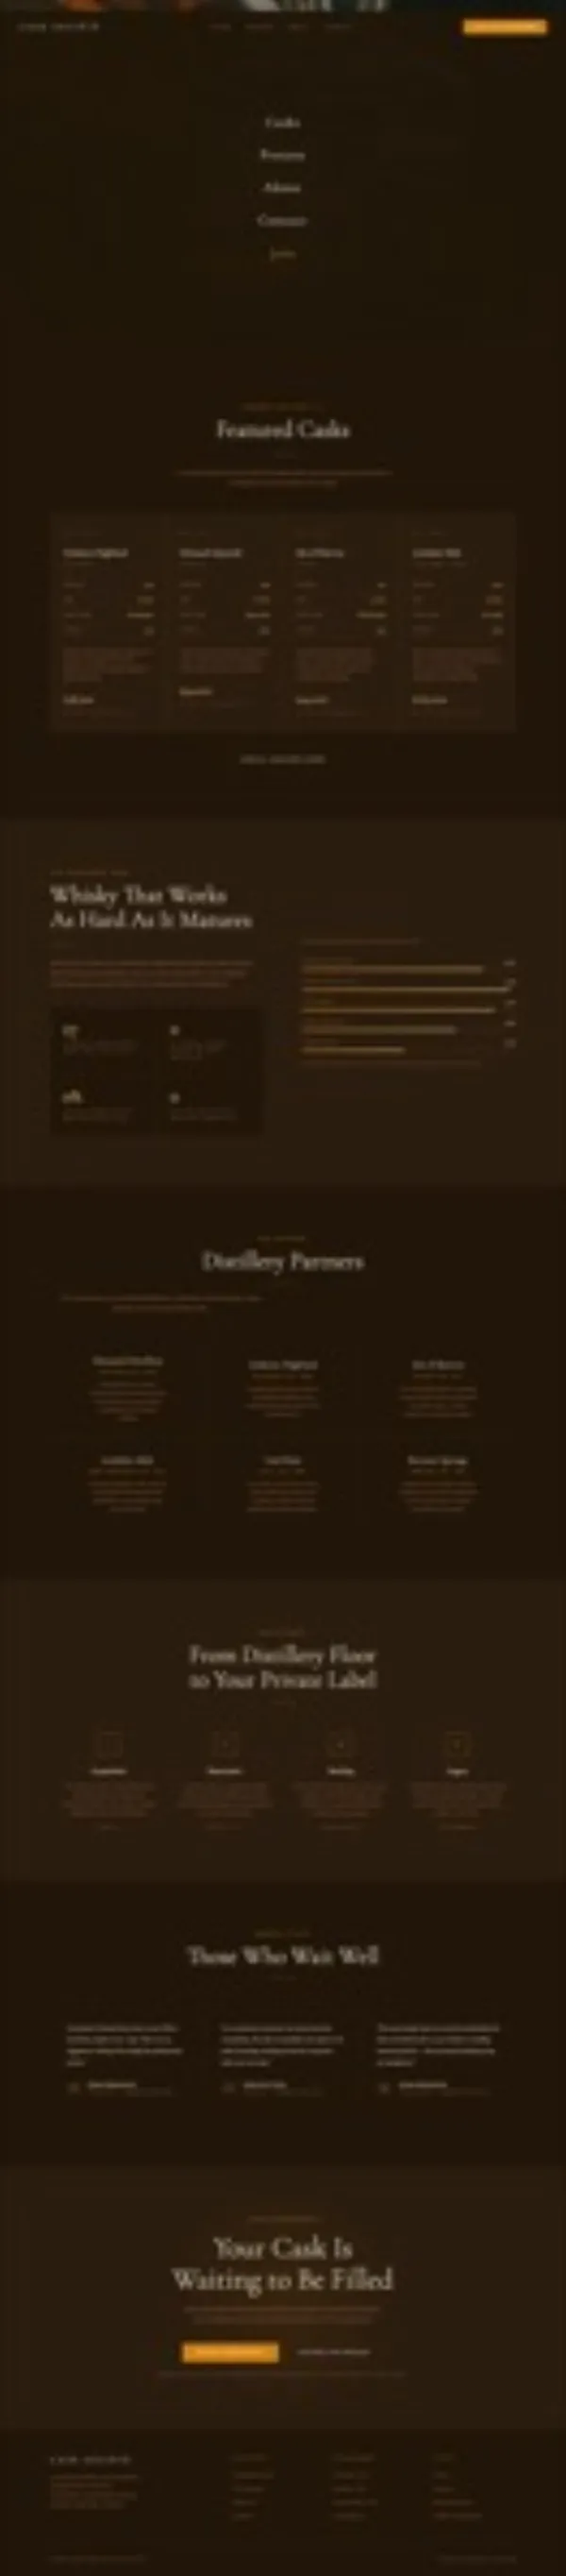
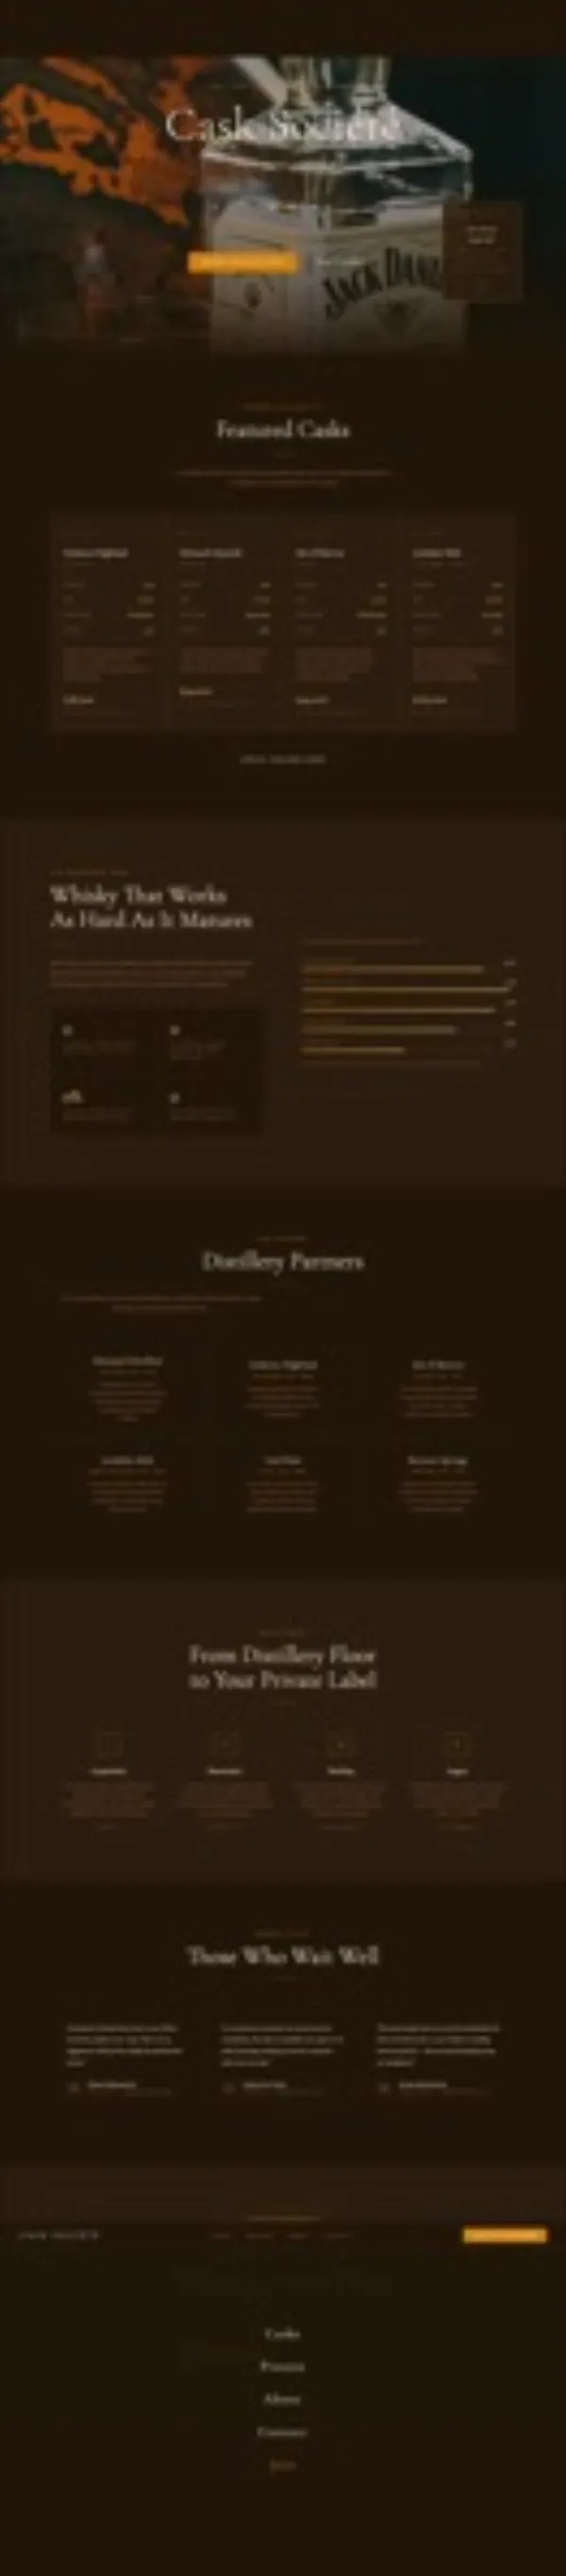
fix: improve capture-page.py and re-capture 19 thumbnails
capture-page.py improvements:
- wait_until='load' (was domcontentloaded) — waits for images/styles
- document.fonts.ready wait — ensures Google Fonts rendered
- Initial wait 600ms → 2500ms
- Scroll steps 8×150ms → 12×200ms + 1500ms settle
- GSAP: only force-complete non-scrub animations (was globalTimeline.progress(1))
- New SCRUB_RESET_SCRIPT: resets Hero G scroll-driven words to progress=0
  (fixes hero text showing in spread/faded end state)

Re-captured thumbnails:
- 15x 20260227 Hero G pages (scrub reset bug)
- 4x other pages (pottery-studio, underwater-restaurant, whisky-cask, wine-tasting-room)

Add scripts/check-thumbnails.py for batch quality inspection

Changed region(s): [[0.0, 0.0, 0.96, 0.1558], [0.3, 0.8413, 0.69, 0.9659], [0.81, 0.8413, 0.96, 0.8724]]

diff --git a/scripts/capture-page.py b/scripts/capture-page.py
@@ -34,7 +34,6 @@ REVEAL_SCRIPT = """
           if (rule.style) {
             var op = parseFloat(rule.style.opacity);
             var vis = rule.style.visibility;
-            var disp = rule.style.display;
             if ((op < 0.1 || vis === 'hidden') && !shouldExclude(rule.selectorText)) {
               overrides.push(
                 rule.selectorText +
@@ -90,47 +89,56 @@ if (si) si.classList.add('visible');
 var siAll = document.querySelectorAll('.scroll-indicator, .scroll-progress, [data-scroll-indicator]');
 siAll.forEach(function(el) { el.classList.add('visible'); el.style.opacity = '1'; });
 
-// 4. navbar 스크롤 상태 적용 (스크롤 후 배경 전환을 미리 적용)
+// 4. navbar 스크롤 상태 적용
 var nav = document.querySelector('nav, header, .navbar, .nav, #navbar, #header');
 if (nav) nav.classList.add('scrolled', 'solid', 'opaque');
 """
 
-GSAP_COMPLETE_SCRIPT = """
-// 1. ScrollTrigger 모든 애니메이션 강제 완료
+# once 애니메이션만 강제 완료 — scrub 애니메이션은 건드리지 않음
+GSAP_ONCE_COMPLETE_SCRIPT = """
+// 1. 비-scrub ScrollTrigger 애니메이션만 강제 완료 (once:true, toggleActions 계열)
 if (window.ScrollTrigger) {
   try {
     ScrollTrigger.getAll().forEach(function(st) {
       try {
-        st.scroll(st.end);
-        if (st.animation) st.animation.progress(1, true);
+        // scrubber가 없는 = once/toggleActions 계열
+        if (!st.scrubber && st.animation) {
+          st.animation.progress(1, true);
+        }
       } catch(e) {}
     });
-    ScrollTrigger.refresh(true);
   } catch(e) {}
 }
 
-// 2. GSAP 타임라인 전체 완료
+// 2. GSAP 타임라인 중 scrub이 아닌 것만 완료
 if (window.gsap) {
   try {
-    gsap.globalTimeline.progress(1, true);
-    gsap.globalTimeline.pause();
+    gsap.globalTimeline.getChildren(true, true, true).forEach(function(tween) {
+      try {
+        var st = tween.scrollTrigger;
+        // scrub 없는 트윈만 완료
+        if (!st || !st.scrubber) {
+          tween.progress(1, true);
+        }
+      } catch(e) {}
+    });
   } catch(e) {}
 }
 
-// 3. CSS transition/animation 강제 완료
+// 3. CSS transition/animation 즉시 완료 (스냅샷 고정)
 var style = document.createElement('style');
 style.id = '__capture_freeze';
 style.textContent = [
   '*, *::before, *::after {',
   '  transition-duration: 0ms !important;',
-  '  animation-duration: 0ms !important;',
+  '  animation-duration: 1ms !important;',
   '  animation-delay: 0ms !important;',
   '  transition-delay: 0ms !important;',
   '}'
 ].join('\\n');
 document.head.appendChild(style);
 
-// 4. opacity:0 인라인 스타일로 남은 요소 강제 표시
+// 4. opacity:0 인라인으로 남은 요소 강제 표시
 var SKIP = ['preloader','loader','loading','intro','overlay','modal','lightbox','backdrop'];
 document.querySelectorAll('*').forEach(function(el) {
   var cls = (el.className || '').toString();
@@ -143,7 +151,6 @@ document.querySelectorAll('*').forEach(function(el) {
       el.style.setProperty('visibility', 'visible', 'important');
     }
     if (st.transform && st.transform !== 'none' && st.transform !== 'matrix(1, 0, 0, 1, 0, 0)') {
-      // translateY가 큰 경우만 리셋 (숨겨진 상태)
       var m = st.transform.match(/matrix\\(([^)]+)\\)/);
       if (m) {
         var vals = m[1].split(',');
@@ -156,7 +163,7 @@ document.querySelectorAll('*').forEach(function(el) {
   }
 });
 
-// 5. Swiper 강제 업데이트
+// 5. Swiper 업데이트
 if (window.Swiper) {
   document.querySelectorAll('.swiper').forEach(function(el) {
     if (el.swiper) el.swiper.update();
@@ -168,6 +175,31 @@ document.querySelectorAll('img[data-src], img[loading="lazy"]').forEach(function
   if (img.dataset.src) img.src = img.dataset.src;
   img.loading = 'eager';
 });
+"""
+
+# scroll=0으로 복귀 후 scrub 애니메이션을 초기 상태로 리셋
+SCRUB_RESET_SCRIPT = """
+// 스크롤 TOP 복귀
+window.scrollTo(0, 0);
+
+// Hero G 등 scrub 애니메이션 → scroll=0 상태(progress=0)로 리셋
+if (window.ScrollTrigger) {
+  try {
+    ScrollTrigger.getAll().forEach(function(st) {
+      try {
+        if (st.scrubber) {
+          // scrub 기반 → progress=0 (scroll=0에서의 자연 상태)
+          st.scrubber.progress(0, true);
+          if (st.animation) {
+            st.animation.progress(0, true);
+          }
+        }
+      } catch(e) {}
+    });
+    // ScrollTrigger를 현재 scroll position(0)에 맞게 재계산
+    ScrollTrigger.refresh(true);
+  } catch(e) {}
+}
 """
 
 with sync_playwright() as p:
@@ -182,31 +214,37 @@ with sync_playwright() as p:
     # CSS opacity:0 강제 해제 (init script — 가장 먼저 실행)
     page.add_init_script(REVEAL_SCRIPT)
 
-    # 페이지 로드 (networkidle 대기)
-    page.goto(f"file://{file_path}", wait_until='domcontentloaded', timeout=30000)
-    page.wait_for_timeout(600)
+    # 페이지 로드 — load 이벤트까지 대기 (이미지, 스타일시트 포함)
+    page.goto(f"file://{file_path}", wait_until='load', timeout=30000)
+
+    # Google Fonts 등 웹폰트 로딩 완료 대기
+    try:
+        page.wait_for_function("document.fonts.ready.then(() => true)", timeout=5000)
+    except Exception:
+        pass
+    page.wait_for_timeout(2500)
 
     # 프리로더 제거 & 초기화
     page.evaluate(PREPARE_SCRIPT)
-    page.wait_for_timeout(400)
+    page.wait_for_timeout(800)
 
-    # 단계적 스크롤 — ScrollTrigger를 순서대로 발동
+    # 단계적 스크롤 — ScrollTrigger(once) 순서대로 발동
     page_height = page.evaluate("document.body.scrollHeight")
-    steps = 8
+    steps = 12
     for i in range(1, steps + 1):
         pos = int(page_height * i / steps)
         page.evaluate(f"window.scrollTo(0, {pos})")
-        page.wait_for_timeout(150)
+        page.wait_for_timeout(200)
 
+    page.wait_for_timeout(1500)
+
+    # once 애니메이션만 강제 완료 (scrub은 건드리지 않음)
+    page.evaluate(GSAP_ONCE_COMPLETE_SCRIPT)
     page.wait_for_timeout(800)
 
-    # GSAP 전체 강제 완료 + CSS freeze
-    page.evaluate(GSAP_COMPLETE_SCRIPT)
-    page.wait_for_timeout(600)
-
-    # 최종 스크롤 TOP으로 복귀
-    page.evaluate("window.scrollTo(0, 0)")
-    page.wait_for_timeout(500)
+    # 최종 스크롤 TOP 복귀 + scrub 애니메이션 초기 상태로 리셋
+    page.evaluate(SCRUB_RESET_SCRIPT)
+    page.wait_for_timeout(1500)
 
     # 스크린샷
     page.screenshot(path=out_path, full_page=True)

diff --git a/scripts/check-thumbnails.py b/scripts/check-thumbnails.py
@@ -1,0 +1,111 @@
+#!/usr/bin/env python3
+"""
+thumbnail 품질 일괄 검사 스크립트
+Usage:
+  python3 scripts/check-thumbnails.py               # 모든 템플릿 검사
+  python3 scripts/check-thumbnails.py 20260227       # 특정 날짜 prefix만
+  python3 scripts/check-thumbnails.py --list-bad     # 불량 목록만 출력 (재캡처용)
+"""
+import sys, os, struct, zlib
+
+BASE = "/Users/chulheewon/development/main_project/homepage_dream/multi_clone_hompage/home"
+
+# 인수 파싱
+prefix_filter = None
+list_bad_only = False
+for arg in sys.argv[1:]:
+    if arg == '--list-bad':
+        list_bad_only = True
+    else:
+        prefix_filter = arg
+
+def get_webp_size(path):
+    """WebP 파일 크기(bytes) 반환"""
+    try:
+        return os.path.getsize(path)
+    except:
+        return 0
+
+def analyze_webp_brightness(path):
+    """
+    WebP 파일의 대략적인 밝기 분석.
+    PIL 없이: 파일 헤더 이후 데이터의 바이트 평균으로 추정.
+    실제로는 compressed data이므로 완벽하지 않지만,
+    완전히 어두운(단색) 이미지는 압축률이 매우 높아 파일이 작음.
+    """
+    size = get_webp_size(path)
+    return size
+
+def check_template(slug):
+    """
+    단일 템플릿 검사.
+    반환: (status, reason, thumb_size_kb)
+    status: 'OK' | 'WARN' | 'BAD' | 'MISSING'
+    """
+    slug_dir = os.path.join(BASE, slug)
+    thumb_path = os.path.join(slug_dir, "images", "thumbnail.webp")
+    index_path = os.path.join(slug_dir, "index.html")
+
+    if not os.path.exists(index_path):
+        return ('BAD', 'index.html 없음', 0)
+
+    if not os.path.exists(thumb_path):
+        return ('MISSING', 'thumbnail.webp 없음', 0)
+
+    size_bytes = get_webp_size(thumb_path)
+    size_kb = size_bytes / 1024
+
+    if size_kb < 4:
+        return ('BAD', f'파일 크기 너무 작음 ({size_kb:.1f}KB) — 거의 확실히 blank', size_kb)
+    elif size_kb < 15:
+        return ('WARN', f'파일 크기 작음 ({size_kb:.1f}KB) — 재캡처 권장', size_kb)
+    elif size_kb < 20:
+        return ('WARN', f'파일 크기 의심 ({size_kb:.1f}KB)', size_kb)
+    else:
+        return ('OK', f'{size_kb:.1f}KB', size_kb)
+
+def main():
+    slugs = sorted([
+        d for d in os.listdir(BASE)
+        if os.path.isdir(os.path.join(BASE, d))
+        and not d.startswith('.')
+    ])
+
+    if prefix_filter:
+        slugs = [s for s in slugs if s.startswith(prefix_filter)]
+
+    results = {'OK': [], 'WARN': [], 'BAD': [], 'MISSING': []}
+
+    if not list_bad_only:
+        print(f"검사 대상: {len(slugs)}개 템플릿\n")
+        print(f"{'STATUS':<8} {'SIZE':>8}  SLUG")
+        print("─" * 60)
+
+    for slug in slugs:
+        status, reason, size_kb = check_template(slug)
+        results[status].append((slug, reason, size_kb))
+
+        if list_bad_only:
+            if status in ('BAD', 'MISSING', 'WARN'):
+                print(slug)
+        else:
+            icon = {'OK': '✅', 'WARN': '⚠ ', 'BAD': '❌', 'MISSING': '🚫'}[status]
+            if status != 'OK':
+                print(f"{icon} {status:<6} {size_kb:>7.1f}KB  {slug}  ({reason})")
+            # OK는 조용히 (너무 많으면 노이즈)
+
+    if not list_bad_only:
+        print("\n" + "─" * 60)
+        print(f"✅ OK:      {len(results['OK']):3}개")
+        print(f"⚠  WARN:    {len(results['WARN']):3}개  ← 재캡처 권장")
+        print(f"❌ BAD:     {len(results['BAD']):3}개  ← 재캡처 필요")
+        print(f"🚫 MISSING: {len(results['MISSING']):3}개  ← 재캡처 필요")
+
+        need_recapture = results['WARN'] + results['BAD'] + results['MISSING']
+        if need_recapture:
+            print(f"\n재캡처 필요 목록 ({len(need_recapture)}개):")
+            for slug, reason, _ in need_recapture:
+                print(f"  {slug}")
+
+if __name__ == '__main__':
+    main()
